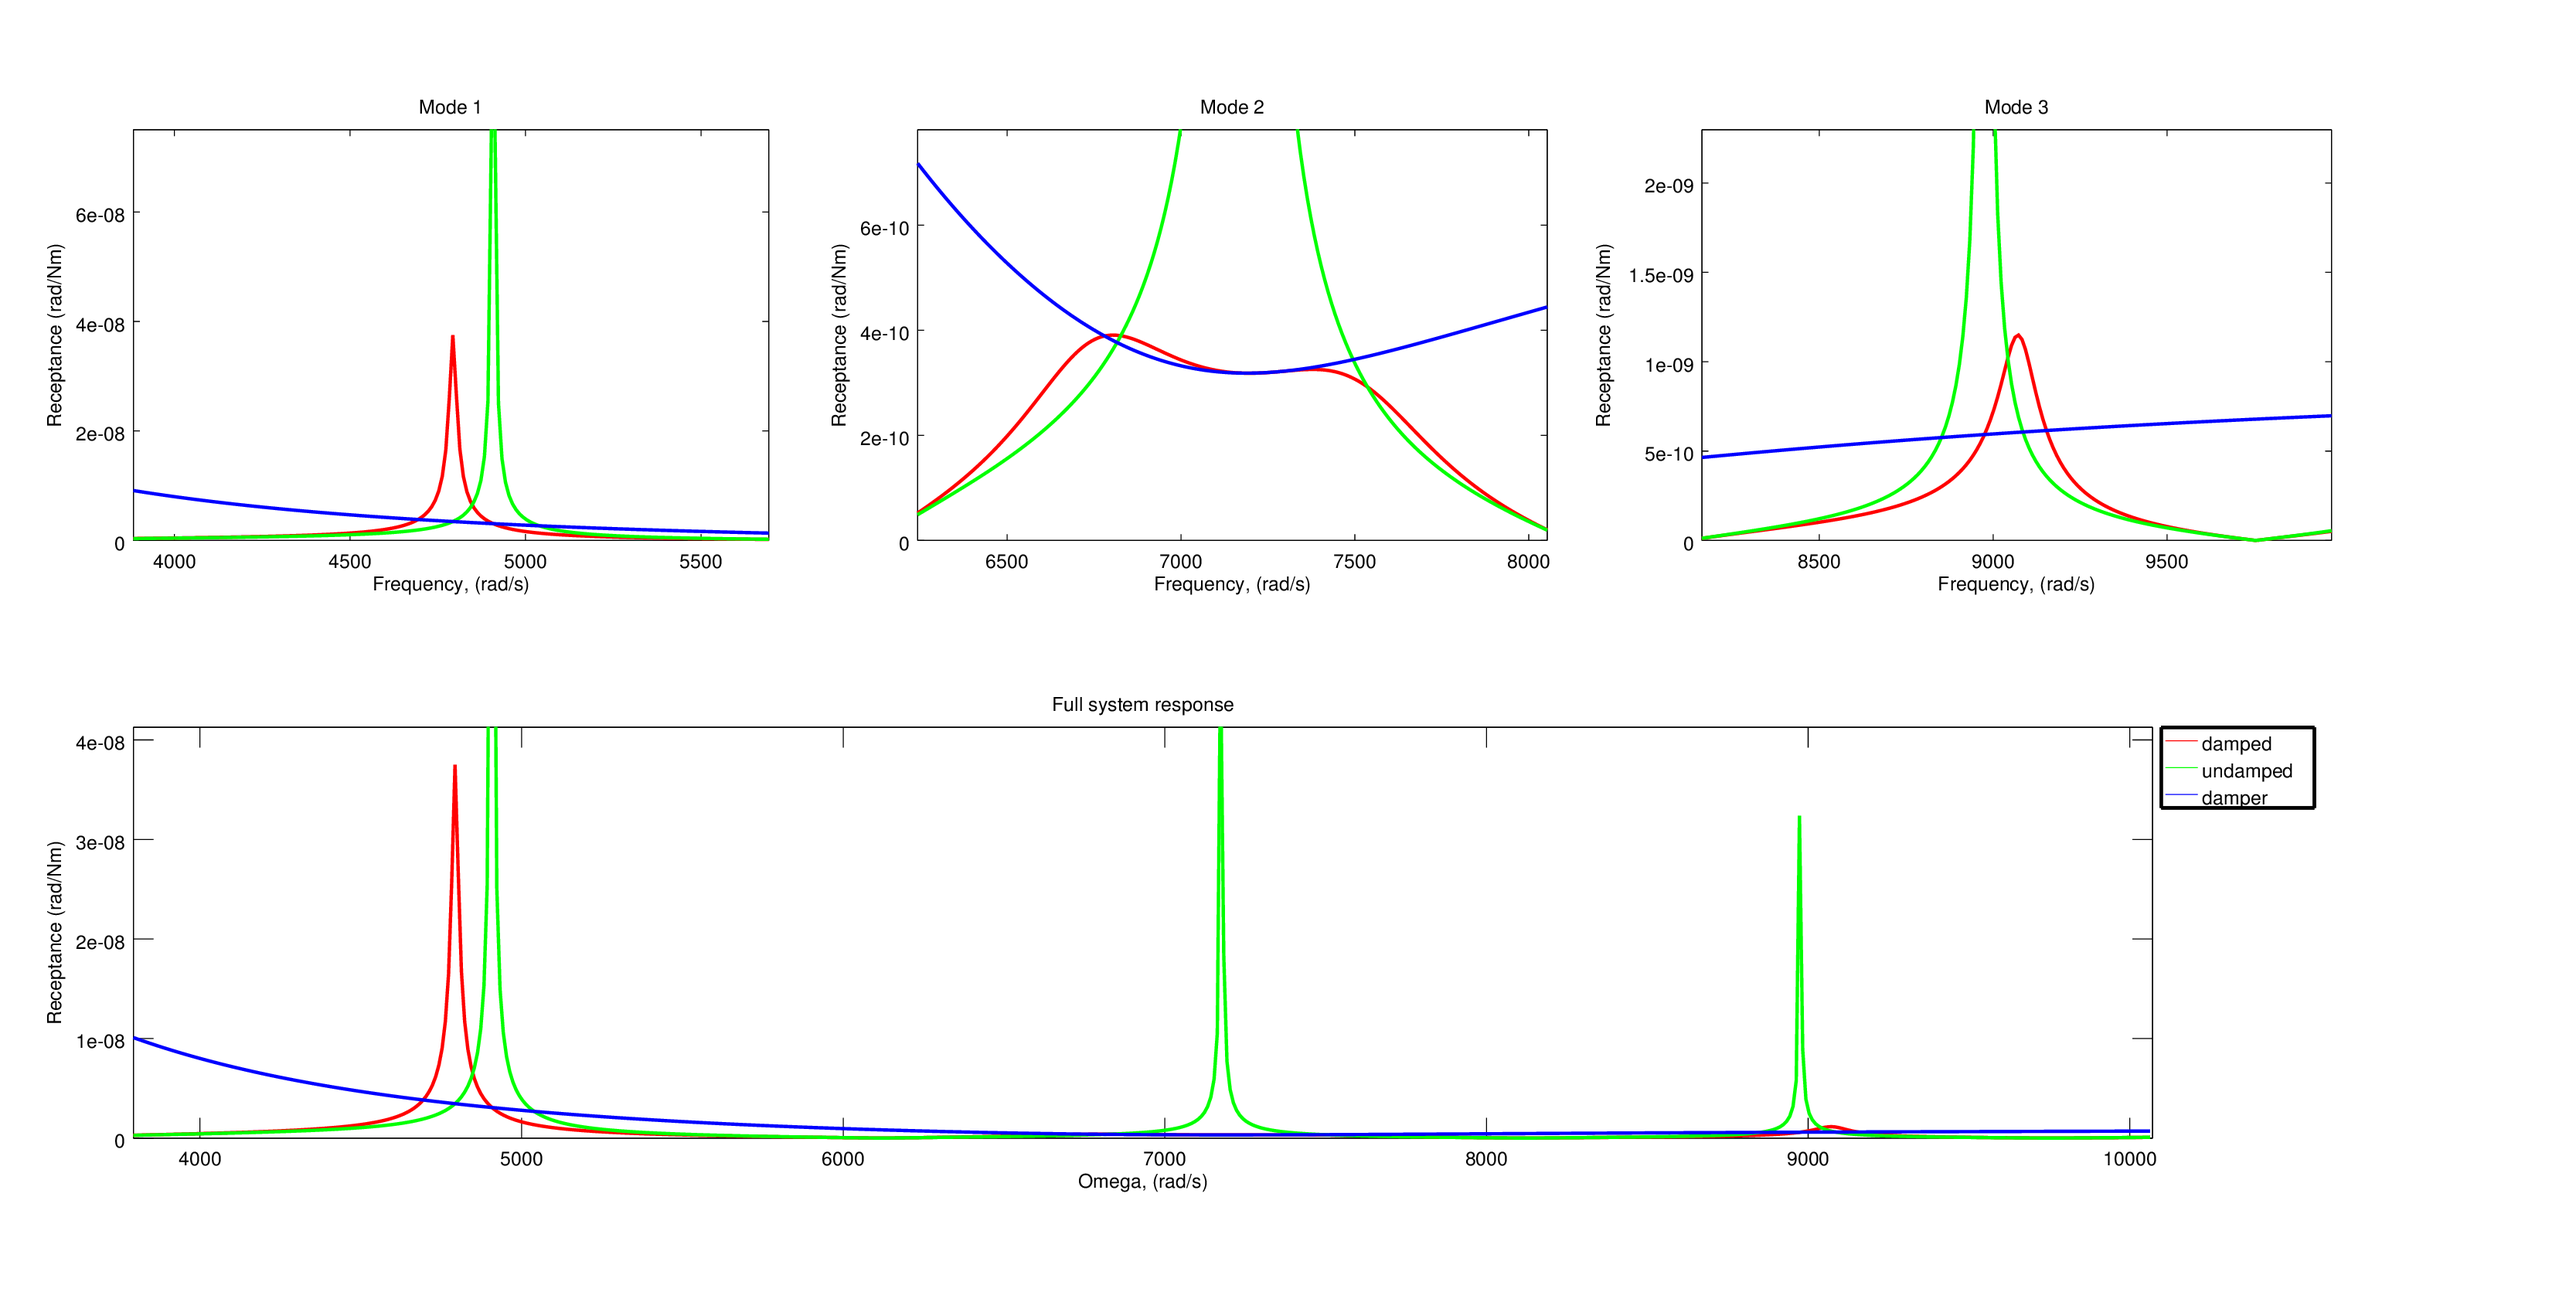
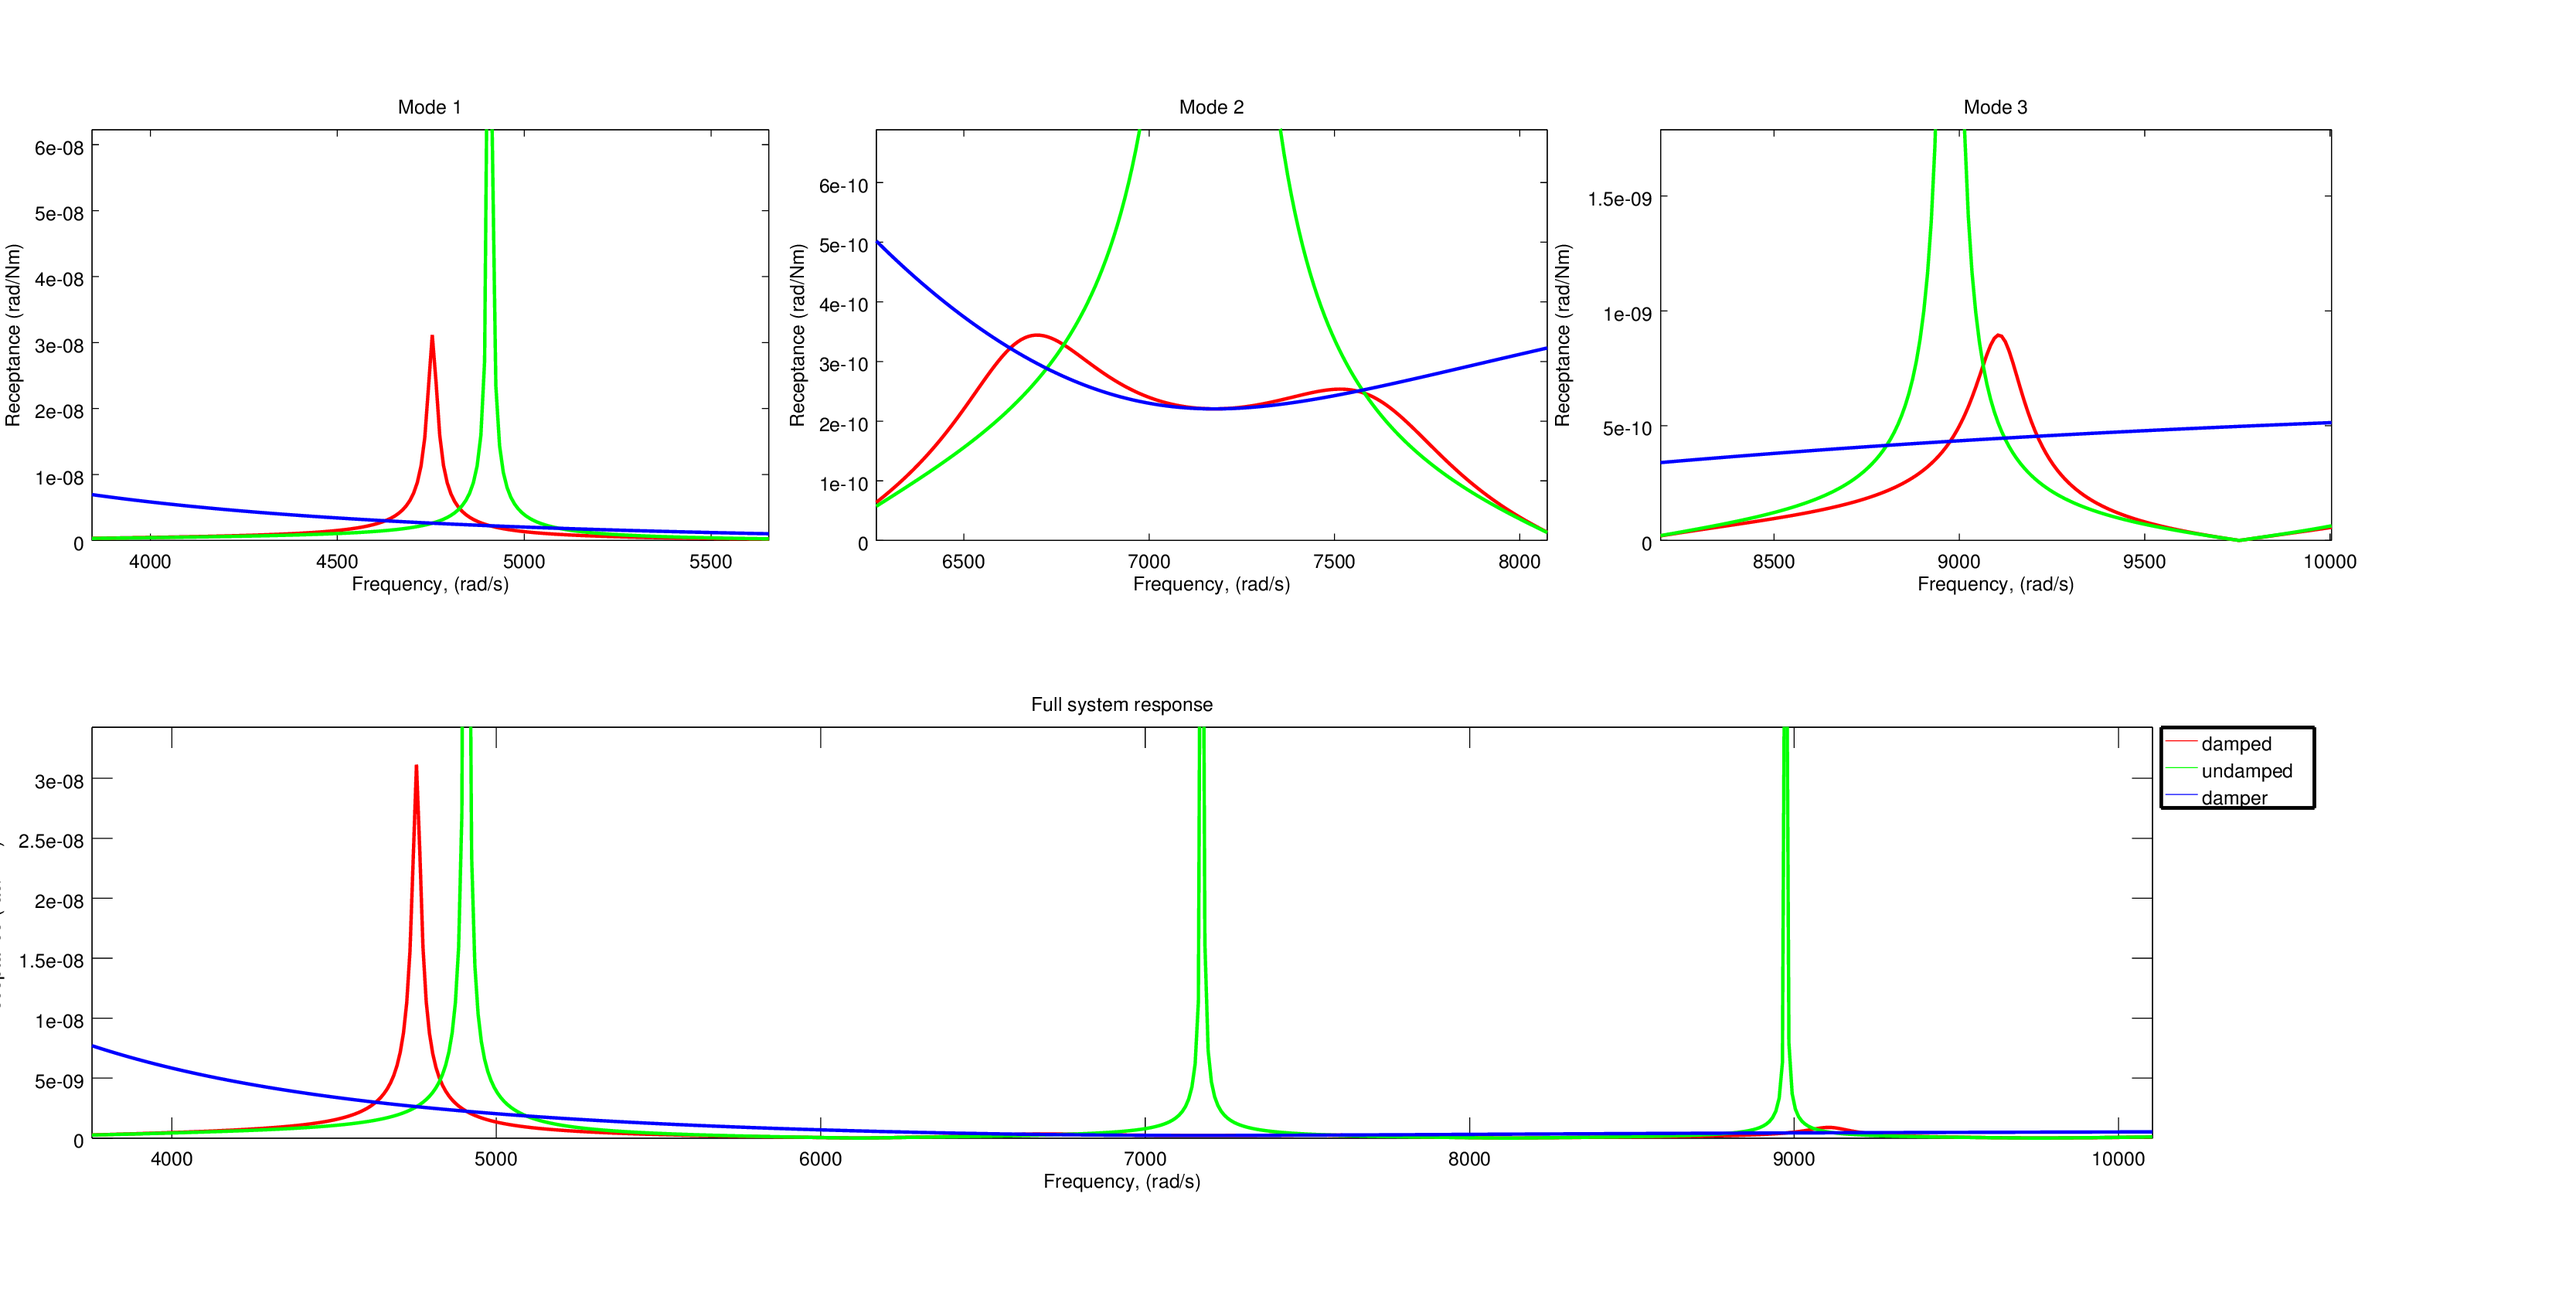
Resolves the peak to 1 in 10^6 and stops, added final results

diff --git a/optimise.m b/optimise.m
@@ -4,13 +4,13 @@ function [L,k,mostStiff] = optimise(L,k)
 
 	%exponential L steps
 	kbound = [5, 12];
-	kstep = 0.001;
+	kstep = 0.1;
 	kExp = log10(k);
 	%linear k steps
 	Lbound = [0, 2*L1];
-	Lstep = 0.0001;
+	Lstep = 0.01;
 
-	mostStiff = betaM2(L,k)
+	mostStiff = betaM2(L,k);
 
 	changed = true;
 
@@ -21,11 +21,11 @@ function [L,k,mostStiff] = optimise(L,k)
 		%Use the test results as a step vector?
 		changed = false;
 
-		plotRoots(4, [L,k]);
-		drawnow
+		%plotRoots(4, [L,k]);
+		%drawnow
 		L
 		k
-		fflush(stdout)
+		fflush(stdout);
 
 		Ltest = min(L+Lstep,Lbound(2));
 		testStiff = betaM2(Ltest,k);
@@ -43,14 +43,6 @@ function [L,k,mostStiff] = optimise(L,k)
 			changed  = true;
 		endif
 
-
-
-
-		plotRoots(4, [L,k]);
-		drawnow
-		L
-		k
-		fflush(stdout);
 
 		ktestExp = min(kExp+kstep,kbound(2));
 		ktest = 10^ktestExp;
@@ -72,9 +64,15 @@ function [L,k,mostStiff] = optimise(L,k)
 			changed  = true;
 		endif
 
+		if((changed == false)&&(Lstep > 10^-7))
+			kstep = kstep/2
+			Lstep = Lstep/2
+			changed = true;
+			plotRoots(4, [L,k]);
+		endif
 
 	endwhile
-	
+	plotRoots(4, [L,k]);
 
 
 endfunction

diff --git a/plotRoots.m b/plotRoots.m
@@ -65,7 +65,7 @@ function p = plotRoots(count, x)
 		 omega, receptance(3,:), '-b','LineWidth',2 );
 
 	title('Full system response');
-	xlabel('Omega, (rad/s)');
+	xlabel('Frequency, (rad/s)');
 	ylabel('Receptance (rad/Nm)');
 	axis([Gstartx, Gendx, 0, 1.1*max(receptance(1,:))]);
 

diff --git a/systemRoots.m b/systemRoots.m
@@ -8,7 +8,7 @@ function [omega, displacement, solnInfo] = systemRoots(count, x)
 	k=x(2);
 
 	omTol = 1;	%tolerance on omega values being the same root
-	omStep = 100;
+	omStep = 500;
 
 	omega(1:count) = 0;
 	displacement(1:count) = 0;
